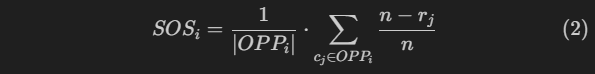
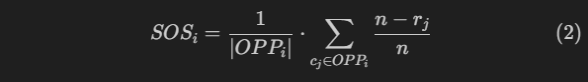
Update README for new SOS and alpha usage

diff --git a/README.md b/README.md
@@ -2,7 +2,7 @@
 
 ## Introduction
 
-There are many ways to rank a set of entities given results of one-on-one games between them. The NFL and NBA have a deterministic method to determine which teams make the playoffs, looking at record, division, and head-to-head matchups. The ATP uses a point system to determine world tennis rankings. College sports, on the other hand, typically relies on committees to make ranking decisions.
+There are many ways to rank a set of competitors given results of one-on-one games between them. The NFL and NBA have a deterministic method to determine which teams make the playoffs, looking at record, division, and head-to-head matchups. The ATP uses a point system to determine world tennis rankings. College sports, on the other hand, typically relies on committees to make ranking decisions.
 
 There is a lot of controversy behind some decisions made by college sports committees. However, it is difficult to rely on something as simple as win-loss record to determine college rankings due to a wide variety of schedules.
 
@@ -14,7 +14,7 @@ My personal opinion is that the most important quality of a ranking should be co
 
 Suppose we have $n$ competitors labelled $c_1, c_2, ..., c_n$.
 
-Define a game as an ordered pair of two different competitors. For a game $(c_i, c_j)$, we say that competitor $c_i$ is the winner and competitor $c_j$ is the loser. Let $G$ be a collection of $m$ not necessarily unique games.
+Define a game as an ordered pair of two different competitors. For a game $(c_i, c_j)$, we say that competitor $c_i$ is the winner and competitor $c_j$ is the loser. Let $G$ be a collection of games. Games are not necessarily unique; $G$ can contain the same game multiple times. If this is the case, the game will contribute to totals as many time as it is present in $G$.
 
 Let $r_i$ be the integer rank of competitor $c_i$ for each $i \in \{1,...,n\}$. It must be the case that $r_i \neq r_j$ for all unique $i, j \leq n$. It must also be the case that $1 \leq r_i \leq n$ for all $i \leq n$. In other words, each competitor should be assigned a unique integer rank from $1$ to $n$.
 
@@ -33,11 +33,11 @@ The total inconsistency score of the ranking is just the sum of all the inconsis
 
 ## The Improved Ranking System
 
-Optimization problem $(1)$ is valid and prioritizes consistency, but there are a few features that could be viewed as problematic. We make small changes to the formulation to solve these problems.
+Optimization problem $(1)$ is valid and prioritizes consistency, but there are a few features that could be viewed as problematic. We make small, parameterized changes to the formulation to solve these problems, allowing the ranking behavior to be tuned based on specific preferences and league characteristics.
 
 ### Respecting Head-To-Head Results
 
-Consider a situation where we have a clear top two competitors $c_1$ and $c_2$. Suppose $c_1$ has beaten $c_2$, but $c_1$ has lost to a significantly lower ranked competitor $c_3$. Would we rather have $c_1$ or $c_2$ be ranked $1$?
+Consider a situation where we have a clear top two competitors $c_1$ and $c_2$. Suppose $c_1$ has beaten $c_2$, but $c_1$ has lost to a significantly lower ranked competitor $c_3$. Should $c_1$ or $c_2$ be ranked first?
 
 Let's consider both cases with the objective function proposed in $(1)$. If we let $r_1=1$ and $r_2=2$, then the game between $c_1$ and $c_2$ is consistent. The game between $c_1$ and $c_3$ gives an inconsistency score of $r_3 - 1$.
 
@@ -45,53 +45,109 @@ Now, let $r_1=2$ and $r_2=1$. The game between $c_1$ and $c_2$ is now inconsiste
 
 Notice that in $(1)$, both rankings are equally consistent. However, I propose that a better ranking, when magnitude of inconsistency is equivalent, should then minimize the number of inconsistencies. This is certainly the precedent set in many rankings to prioritize head-to-head results. In this case, letting $r_1=1$ and $r_2=2$ should be preferred so the game between $c_1$ and $c_2$ is a consistent one with the ranking.
 
-This can be achieved by not only tracking the size of each inconsistency, but also the number of inconsistencies. Therefore, our new objective function is the sum of all game inconsistency scores plus the number of inconsistent games. Equivalently, we can just add $1$ to each inconsistent game to form a new game inconsistency score, $\max(0, r_j - r_i + 1)$ for game $(c_i, c_j)$. Indeed, if $r_i > r_j$, then the game still has score $0$.
+This can be achieved by not only tracking the size of each inconsistency, but also the number of inconsistencies. Therefore, we introduce a parameter $\alpha \geq 0$ to form a new game inconsistency score, $\max(0, \alpha + r_j - r_i)$ for game $(c_i, c_j)$. If $r_i > r_j$, then the game still has score $0$.
 
-This can also be confirmed with our previous example. Letting $r_1 = 1$ and $r_2 = 2$ gives total inconsistency score $0 + (r_3 - 1 + 1) = r_3$. On the other hand, letting $r_1 = 2$ and $r_2 = 1$ gives total inconsistency score $(2 - 1 + 1) + (r_3 - 2 + 1) = r_3 + 1$. The first rank assignment now has a lower inconsistency score, as desired.
+The parameter $\alpha$, which must be a non-negative integer, controls the trade-off between inconsistency magnitude and inconsistency count:
+
+$\alpha = 0$: Pure magnitude-based scoring. Only the rank difference matters, not the number of inconsistencies. A single large inconsistency is equivalent to many small inconsistencies with the same total magnitude. This is the same as before.
+
+$\alpha = 1$: Balanced approach. Each inconsistency contributes 1 point plus the magnitude difference. This favors minimizing the number of inconsistencies when total magnitudes are equal.
+
+$\alpha > 1$: Count-prioritizing approach. More heavily emphasizes minimizing the number of inconsistencies over the size of the inconsistencies.
+
+This can also be confirmed with our previous example. Letting $r_1 = 1$ and $r_2 = 2$ gives total inconsistency score $0 + (\alpha + r_3 - 1) = \alpha + r_3 - 1$. On the other hand, letting $r_1 = 2$ and $r_2 = 1$ gives total inconsistency score $(\alpha + 2 - 1) + (\alpha + r_3 - 2) = 2\alpha + r_3 - 1$. The first rank assignment now has a lower inconsistency score for any $\alpha > 0$, as desired.
+
+Requiring $\alpha$ to be an integer ensures that inconsistency scores remain integers, which is crucial for maintaining the strict priority of consistency over strength of schedule (discussed in the next section).
 
 ### Considering Strength Of Schedule
 
-While our primary objective remains consistency, we recognize that not all wins and losses are equal. A win against a top-tier competitor should carry more weight than a win against a bottom-tier competitor when both are consistent with the ranking.
+While our primary objective remains consistency, we recognize that not all results are equal. A win against a top-tier competitor should carry more weight than a win against a bottom-tier competitor, and a loss to a bottom-tier competitor should be more damaging than a loss to a top-tier competitor.
 
-To break ties between rankings with identical inconsistency scores, we introduce a strength of schedule metric. However, we must ensure this never compromises our core consistency objective. We achieve this by adding a carefully bounded tie-breaking term to our optimization problem.
+To break ties between rankings with identical inconsistency scores, we introduce a comprehensive strength of schedule metric. We consider only consistent games—those where the ranking aligns with the game outcome—because inconsistent games already contribute to our primary inconsistency score. This ensures we don't double-penalize or double-reward results that are already accounted for in the core optimization.
 
-We compute a strength of schedule metric $SOS_i$ for competitor $c_i$ using equation $(2)$. Let $OPP_i$ be the collection of opponents that $c_i$ has played.
+We compute a strength of schedule metric $\text{SOS}_i$ for competitor $c_i$ using equation $(2)$, where:
+
+-   $W_i$ denotes the set of opponents that $c_i$ has beaten in consistent games ($r_i < r_j$)
+
+-   $L_i$ denotes the set of opponents that have beaten $c_i$ in consistent games ($r_i > r_j$)
+
+Let:
+
+-   $Q_i^{\text{win}} = \sum_{c_j \in W_i} (n - r_j + 1)^k$ (quality of wins)
+
+-   $Q_i^{\text{loss}} = \sum_{c_j \in L_i} (r_j)^k$ (severity of losses)
+
+Then:
 
 ![eq2](img/eq2.png)
 
-This formulation can be understood as follows:
+Where:
 
--   $\frac{n - r_j}{n}$ converts each opponent's rank to a "quality score" between $0$ (worst opponent) and $\frac{n-1}{n}$ (best opponent)
+-   $Q_{\text{max}}^{\text{win}} = \max_{m} Q_m^{\text{win}}$ (maximum quality of wins among all competitors)
 
--   We average these scores across all opponents by dividing by the number of opponents $|OPP_i|$ to get $SOS_i$.
+-   $Q_{\text{max}}^{\text{loss}} = \max_{m} Q_m^{\text{loss}}$ (maximum severity of losses among all competitors)
 
--   The division by $n$ ensures $0 < SOS_i < 1$, since each opponent contributes at most $\frac{n-1}{n}$ to the average.
+-   $\epsilon > 0$ is a small constant ensuring this tie-breaker term remains strictly less than 1
 
--   Thus, $SOS_a > SOS_b$ indicates that $c_a$ has faced tougher opponents on average than $c_b$.
+Via the parameter $\lambda$, this formulation provides intuitive control over the balance between rewarding quality wins and penalizing bad losses:
 
-To incorporate this into our ranking, we modify the objective function by adding the term computed in $(3)$.
+-   $\lambda = 0$: Only losses matter ($\text{SOS}_i$ ranges from slightly less than -1 to 0)
+
+-   $\lambda = 0.5$: Wins and losses are equally weighted ($\text{SOS}_i$ ranges from slightly more than -0.5 to slightly less than 0.5)
+
+-   $\lambda = 1$: Only wins matter ($\text{SOS}_i$ ranges from 0 to slightly less than 1)
+
+The parameter $k \geq 0$ controls the emphasis on opponent quality:
+
+-   $k = 0$: No quality differentiation—pure win-loss counting where all wins contribute equally and all losses penalize equally
+
+-   $0 < k < 1$: Diminishing returns—rewards consistency across many games, with less differentiation between elite and good wins
+
+-   $k = 1$: Linear weighting—balanced emphasis on both quantity and quality
+
+-   $k > 1$: Increasing returns—heavy emphasis on elite wins and terrible losses, with minimal credit for beating weak opponents
+
+For any $k \geq 0$, adding a consistent win always increases $\text{SOS}_i$, and adding a consistent loss always decreases $\text{SOS}_i$, ensuring the metric behaves intuitively.
+
+We then modify our objective function by adding the term:
 
 ![eq3](img/eq3.png)
 
-This addition works as follows:
+The $\epsilon$ term from $(2)$ ensures $\text{SOS}_i$ is strictly bounded away from the theoretical extremes, guaranteeing the tie-breaker term has magnitude strictly less than 1. Since $\alpha$ is an integer and inconsistency scores are therefore integers, this ensures consistency always takes priority over strength of schedule considerations.
 
--   The term $SOS_i \cdot r_i$ is minimized when competitors with high $SOS_i$ (tough schedules) receive low $r_i$ (good ranks).
-
--   The maximum possible value of $\sum_{i=1}^{n}(SOS_i \cdot r_i)$ occurs when every competitor has $SOS_i close to $1$, yielding slightly less than $\frac{n(n+1)}{2}$.
-
--   Multiplying by $\frac{2}{n(n+1)}$ ensures the entire tie-breaker term is always less than $1$.
-
--   Since our inconsistency scores are integers greater than or equal to $1$, this guarantee means consistency always takes priority over strength of schedule.
-
-This approach maintains our philosophical commitment to consistency while rewarding competitors that face tougher competition when rankings are otherwise equally consistent.
-
-### Other Improvements
-
-Description of other improvements made to the optimization problem.
+This approach maintains our philosophical commitment to consistency while comprehensively evaluating performance quality when rankings are otherwise equally consistent.
 
 ### Improved Mathematical Formulation
 
-The new mathematical formulation.
+The improvements outlined above lead us to our final formulation of the optimization problem.
+
+Given $n$ competitors $c_1, c_2, ..., c_n$ and a collection of games $G$, we seek to find ranks $r_1, r_2, ..., r_n$ that solve:
+
+![eq4](img/eq4.png)
+
+Where the strength of schedule metric $\text{SOS}_i$ is defined as:
+
+![eq5](img/eq5.png)
+
+With:
+
+-   $W_i = \{c_j : (c_i, c_j) \in G \text{ and } r_i < r_j\}$ (consistent wins)
+
+-   $L_i = \{c_j : (c_j, c_i) \in G \text{ and } r_i > r_j\}$ (consistent losses)
+
+-   $Q_{\text{max}}^{\text{win}} = \max_{m} \sum_{c_j \in W_m} (n - r_j + 1)^k$
+
+-   $Q_{\text{max}}^{\text{loss}} = \max_{m} \sum_{c_j \in L_m} (r_j)^k$
+
+-   $\alpha \in \mathbb{Z}_{\geq 0}$ controlling the inconsistency count vs magnitude trade-off
+
+-   $\epsilon > 0$ ensuring the tie-breaker term magnitude is strictly less than 1
+
+-   $k \geq 0$ controlling quality emphasis
+
+-   $0 \leq \lambda \leq 1$ controlling wins/losses balance
+
+The first term minimizes ranking inconsistencies, while the second term breaks ties using strength of schedule, with the coefficient $\frac{2}{n(n+1)}$ guaranteeing that consistency always takes priority. The integer requirement for $\alpha$ ensures that inconsistency scores remain integers, preserving the strict dominance of consistency over the real-valued strength of schedule tie-breaker.
 
 ## The Computation
 
